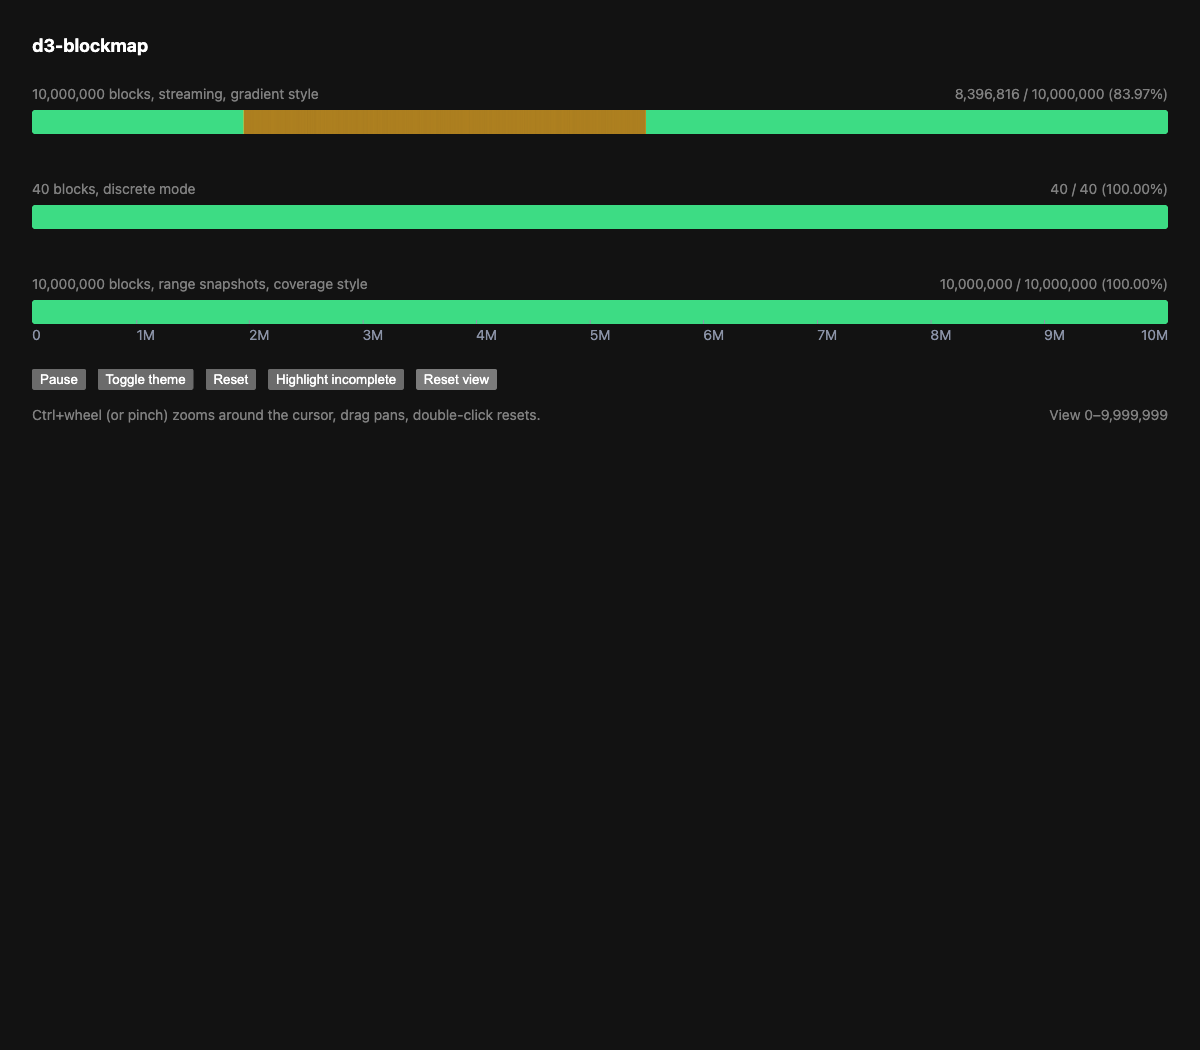
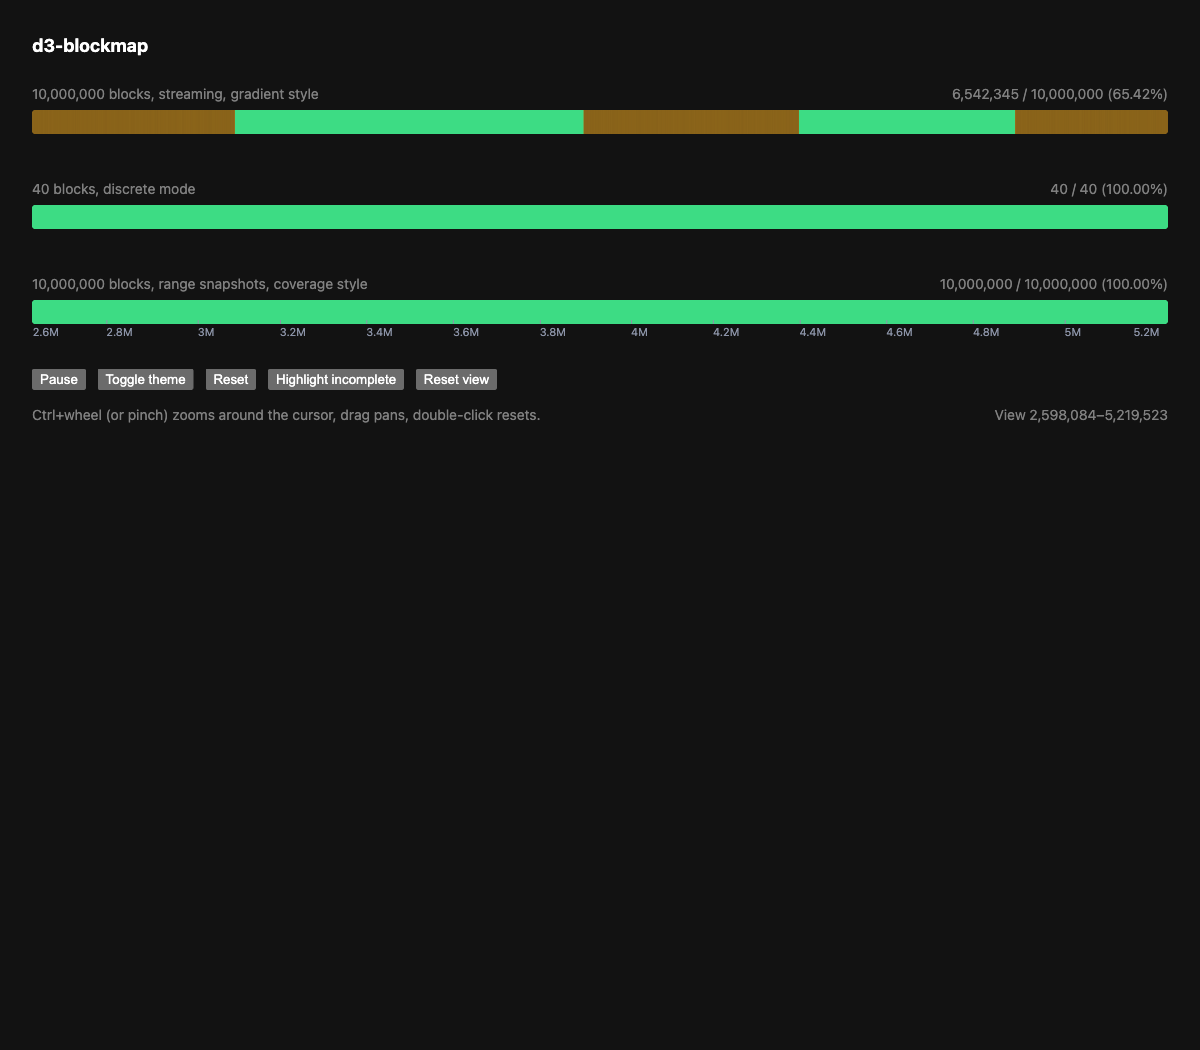
docs: axis README, spec notes, zoomed axis screenshot
Document the committed-view getScale lag, the (block, step) format
signature and its fallback behaviour, overflow:hidden clipping the
axis, and that tickCount is not collision-checked. Correct the spec's
d3-array/internmap dependency note and pin the real Intl compact
output. Note in the demo that d3-array.mjs pre-bundles internmap, and
refresh the axis screenshot to show a zoomed, distinctly-labelled axis.

diff --git a/demo/index.html b/demo/index.html
@@ -58,6 +58,7 @@
   <button id="reset-view">Reset view</button>
 </p>
 <p class="label">Ctrl+wheel (or pinch) zooms around the cursor, drag pans, double-click resets. <span id="view"></span></p>
+<!-- d3-array.mjs pre-bundles its internmap dependency, so no separate import map entry is needed for it. -->
 <script type="importmap">
 { "imports": {
   "d3-blockmap": "/dist/index.js",

diff --git a/README.md b/README.md
@@ -13,7 +13,7 @@ npm i d3-blockmap
 | Export | From | Purpose |
 |---|---|---|
 | `createBlockMap(container, options)` | `d3-blockmap` | Vanilla factory. Returns `BlockMap`. |
-| `BlockMap`, `BlockMapOptions`, `Progress`, `Theme`, `BlockRangeTuple`, `RangeInput`, `PartialStyle`, `BlockView` | `d3-blockmap` | Types. |
+| `BlockMap`, `BlockMapOptions`, `Progress`, `Theme`, `BlockRangeTuple`, `RangeInput`, `PartialStyle`, `BlockView`, `AxisOptions`, `BlockScale` | `d3-blockmap` | Types. |
 | `<BlockMap>` | `d3-blockmap/react` | React wrapper, `forwardRef` to `BlockMapHandle`. |
 | `BlockMapProps`, `BlockMapHandle` | `d3-blockmap/react` | Types. |
 
@@ -70,7 +70,7 @@ A new `blocks` array identity triggers `setBlocks`; keep the reference stable be
 | `view` | `BlockView` | Optional. Initial `{ start, end }` window in block indices, `end` exclusive. |
 | `interactive` | `boolean` | Default `true`. Ctrl+wheel or pinch zooms around the cursor, drag pans, double-click resets. |
 | `onViewChange` | `(view: BlockView) => void` | Called after the view changes by API or interaction. |
-| `axis` | `boolean \| { format?, tickCount? }` | Default off. `true` renders compact tick labels under the bar, one per ~80 CSS px. |
+| `axis` | `boolean \| AxisOptions` (`{ format?, tickCount? }`) | Default off. `true` renders compact tick labels under the bar, one per ~80 CSS px. `format` is `(block: number, step: number) => string`; the default widens compact precision so adjacent ticks stay distinct and falls back to grouped integers (`Intl.NumberFormat("en-US")`) when the step is far below the compact unit or the block is small. `tickCount` overrides the density; labels are not collision-checked beyond edge-anchoring the first and last, so a large `tickCount` on a narrow container can overlap. |
 
 Returns:
 
@@ -84,7 +84,7 @@ Returns:
 | `resetView()` | Back to the full range. |
 | `getView()` | Current `{ start, end }`. |
 | `setHighlight(on)` | Blink every incomplete bin between its colour and `--blockmap-highlight` at 1 Hz (toggles every 500 ms). Steady under `prefers-reduced-motion`. |
-| `getScale()` | `{ domain, range, x(block), block(x) }` for the current view, in CSS px. |
+| `getScale()` | `{ domain, range, x(block), block(x) }` for the committed view (what is painted), in CSS px; during a coalesced view change it lags `getView()` by one frame. |
 | `destroy()` | Remove canvas, tooltip, observers. Idempotent. |
 
 ### Theming
@@ -130,7 +130,8 @@ The tooltip element carries the attribute `data-blockmap-tooltip` and ships unst
 - Bins are computed over the current view, so zooming far enough in switches to discrete per-block segments.
 - View changes from the API or interaction are coalesced to one rebuild per animation frame.
 - There is no keyboard affordance for zoom or pan yet.
-- The axis renders below the container at `top: 100%`; leave space under the bar. Ticks use nice values (1, 2, 5 × 10ⁿ) within the current view.
+- The axis renders below the container at `top: 100%`; leave space under the bar. Ticks land on integer block values, spaced by a nice step (1, 2, 5 × 10ⁿ) within the current view.
+- `overflow: hidden` on the container clips the axis, since it renders outside the container's height at `top: 100%`.
 
 ## Development
 

diff --git a/docs/superpowers/specs/2026-11-09-axis-design.md b/docs/superpowers/specs/2026-11-09-axis-design.md
@@ -138,8 +138,33 @@ leave space below the bar.
 
 ## Dependencies
 
-Add `d3-array` (runtime) and `@types/d3-array` (dev). `d3-array` has no
-dependencies.
+Add `d3-array` (runtime) and `@types/d3-array` (dev). `d3-array` depends
+on `internmap`, pre-bundled into its ESM dist (`d3-array.mjs`), so the
+demo import map needs no entry for it.
+
+## Implementation notes
+
+The initial implementation (this spec) was revised in a follow-up fix
+wave:
+
+- `computeTicks` uses `tickStep` from `d3-array` instead of `ticks`, so
+  tick values land on integer blocks (`first = ceil(view.start / step) *
+  step`, walking by `step` while `<= view.end`), with `step =
+  Math.max(1, rawStep)`. Each `Tick` carries its `step`.
+- `defaultFormat(block, step)` is step-aware: it widens compact
+  precision so adjacent ticks stay distinct (digits computed from how
+  far the step is below the block's compact unit) and falls back to
+  grouped integers (`Intl.NumberFormat("en-US")`) when the step is far
+  below the unit or the block is small. Formatters are cached per
+  digit count rather than built per call. Intl's actual compact output
+  is `450K` for `450_000`/step `50_000`.
+- `getScale()` on `BlockMap` reads the committed view
+  (`state.getView()`), not the pending one, so it reflects what is
+  currently painted; during a coalesced view change it lags
+  `getView()` by one animation frame.
+- `ensureRelative` (the static-position check previously inlined in
+  `createTooltip`) moved to a shared `src/dom.ts`, used by both the
+  tooltip and the axis.
 
 ## Testing
 
